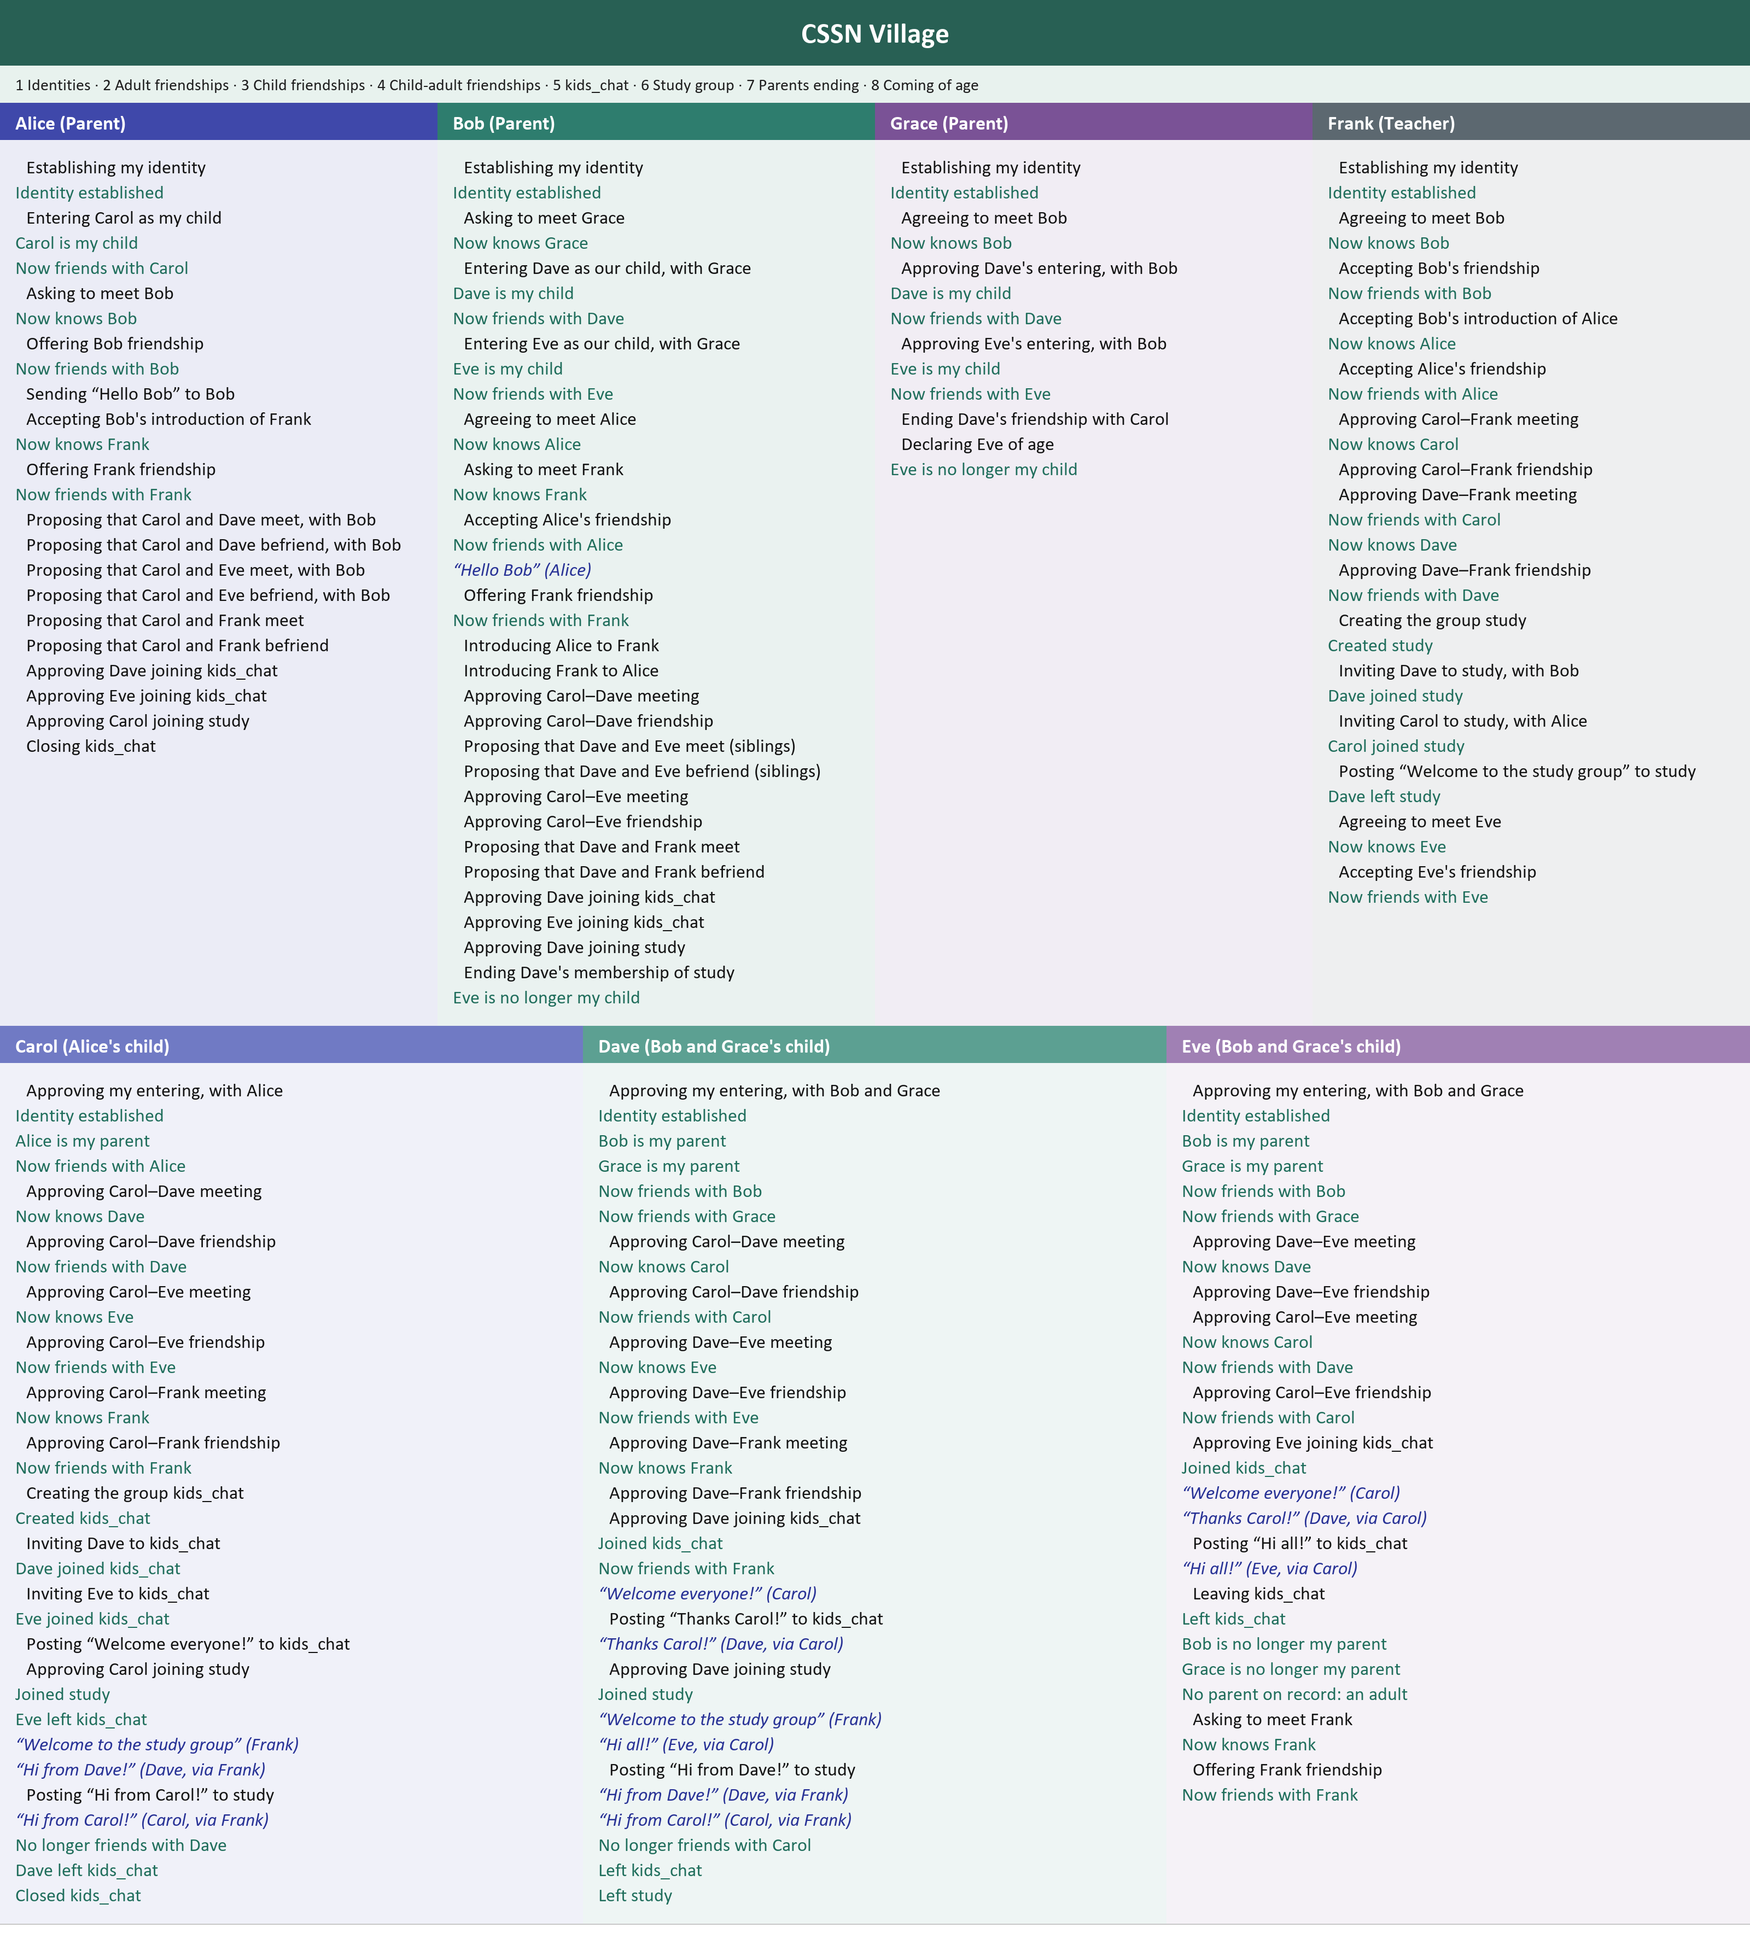
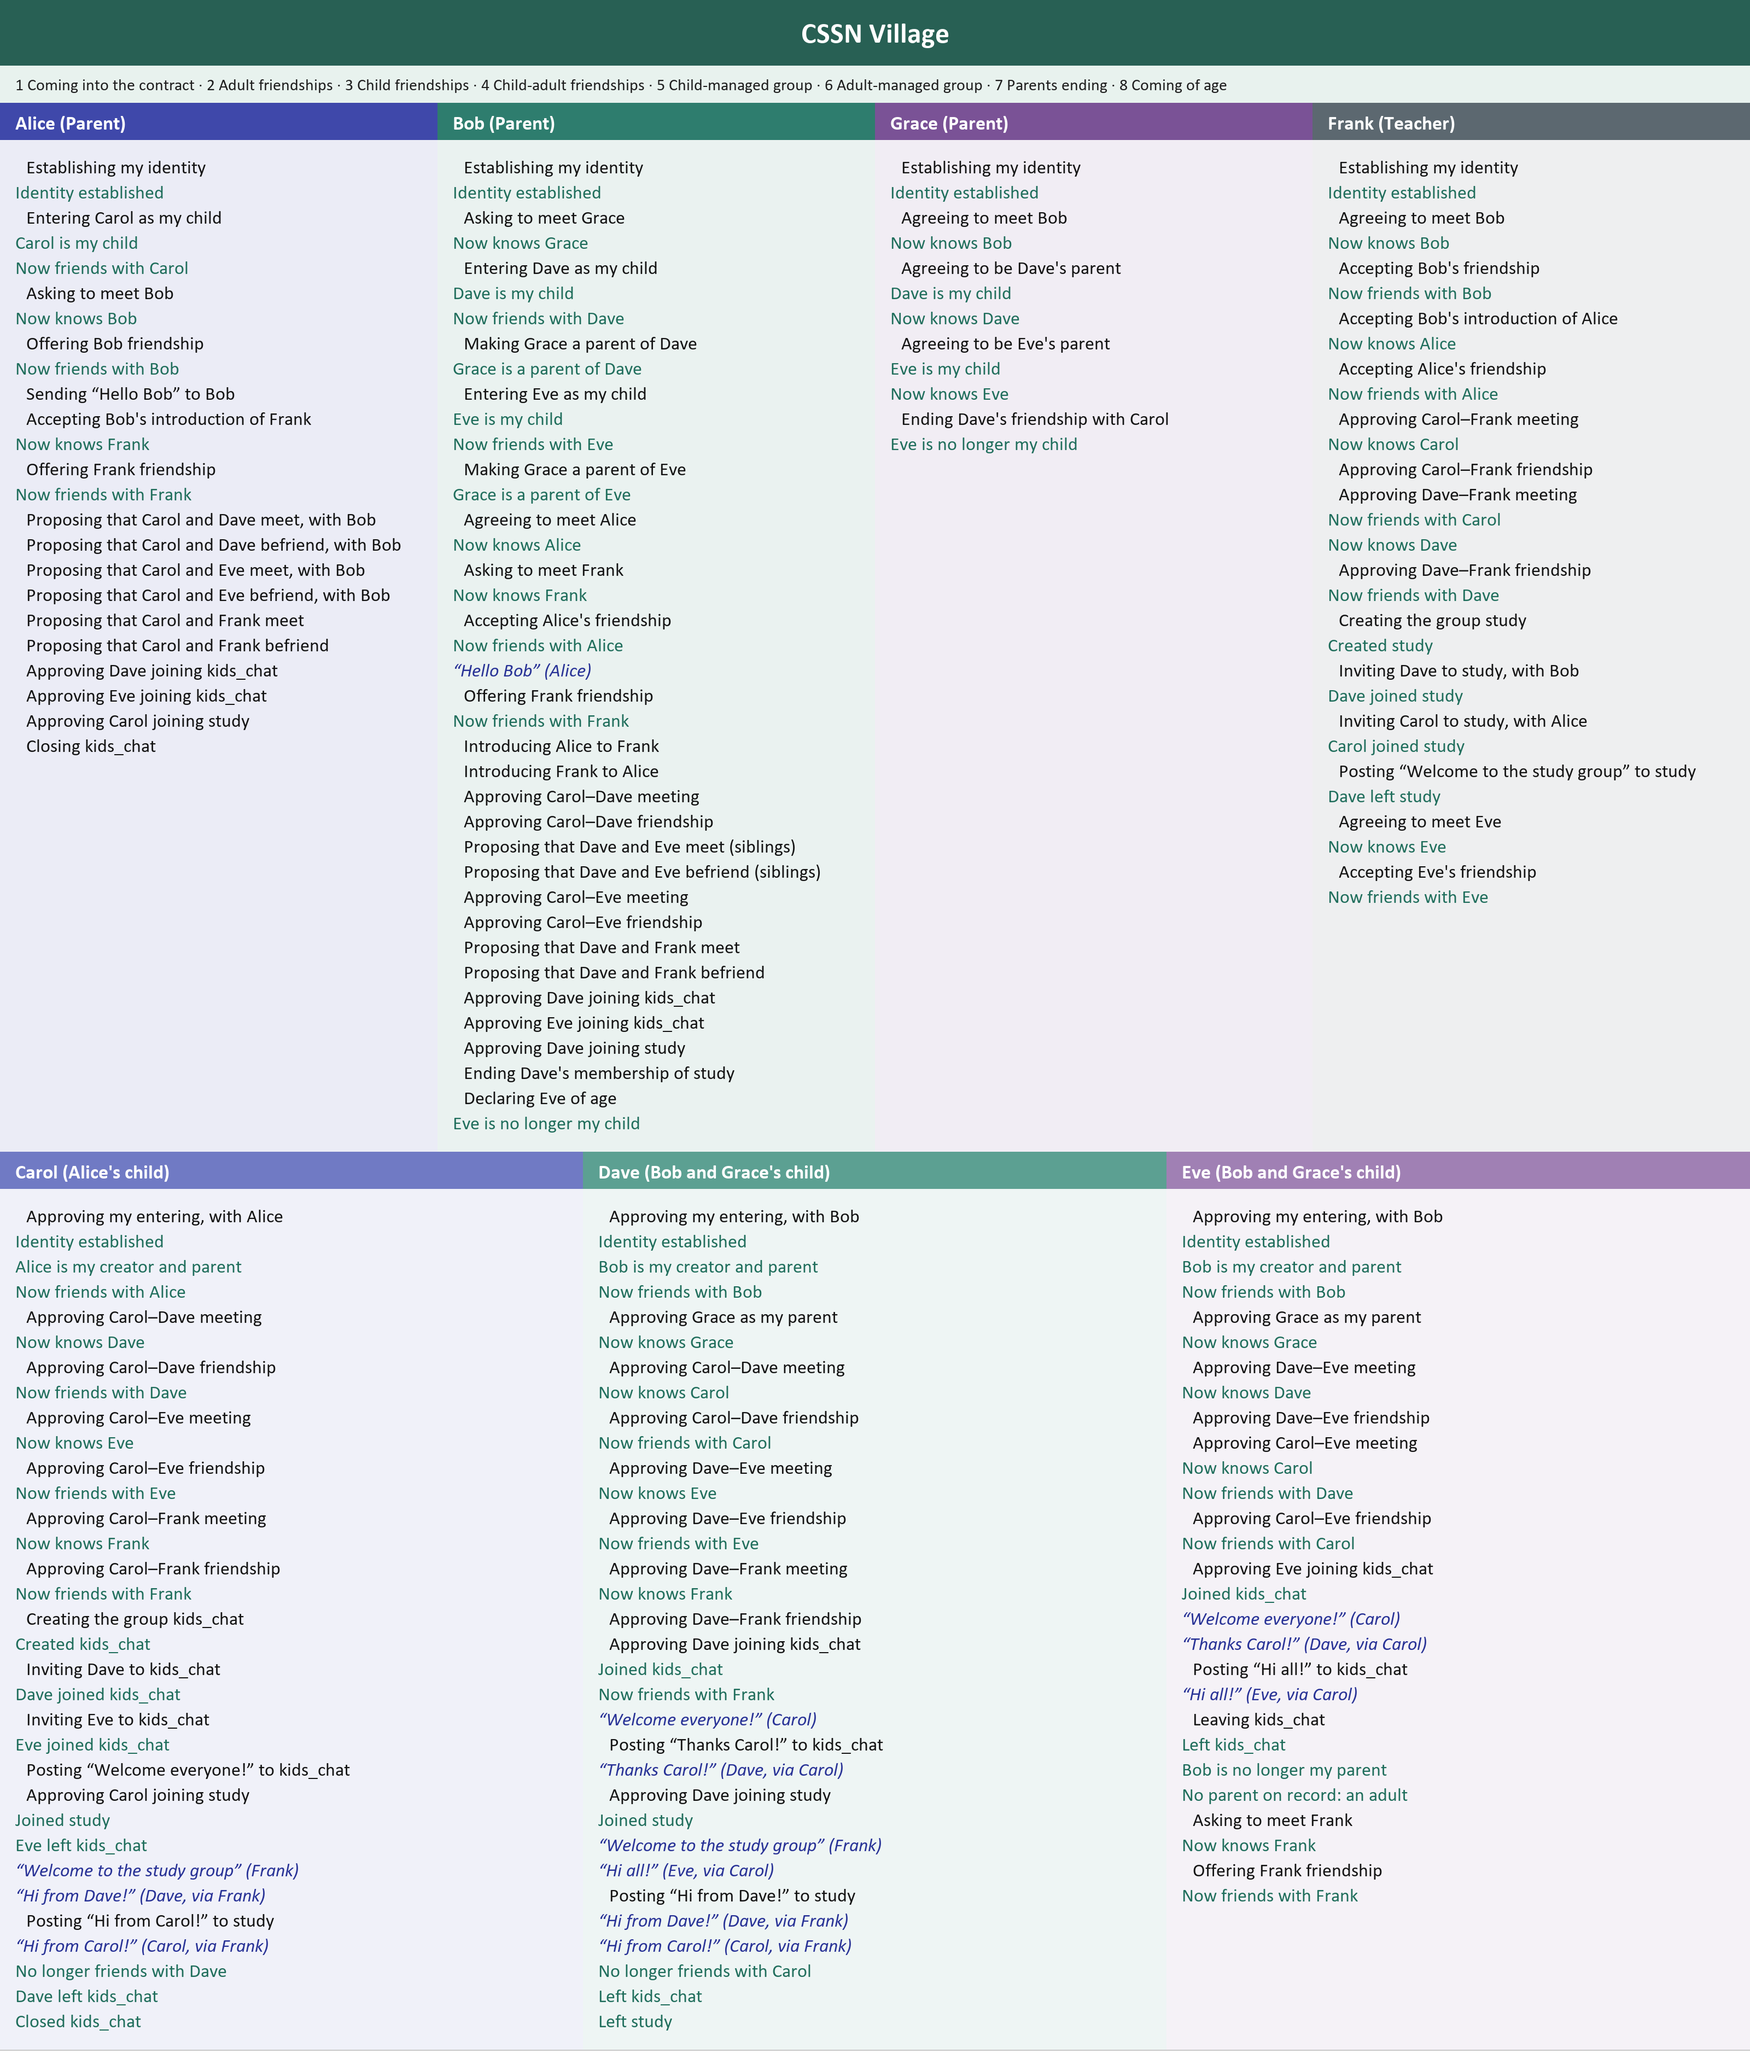
CSSN's Figure 2 re-drawn from the revised village: make_parent and of_age by the creator in the narrative, creator and made atoms; the eight titles

Changed region(s): [[0.0, 0.0, 1.0, 0.9927]]

diff --git a/programs/cssn/figures/village.py b/programs/cssn/figures/village.py
@@ -158,8 +158,12 @@ def request(me, r):
         return "Establishing my identity"
     if f == "enter":
         return "Entering %s as my child" % name(a[1])
-    if f == "enter_2":
-        return "Entering %s as our child, with %s" % (name(a[2]), name(a[1]))
+    if f == "make_parent":
+        return "Making %s a parent of %s" % (name(a[1]), name(a[2]))
+    if f == "end_parent":
+        return "Ending %s's parenthood of %s" % (name(a[1]), name(a[2]))
+    if f == "retire":
+        return "Retiring %s" % name(a[1])
     if f == "meet":
         return "Asking to meet %s" % name(a[1])
     if f == "introduce":
@@ -201,8 +205,8 @@ def request(me, r):
         return "Ending %s's membership of %s" % (name(a[1]), group(a[3]))
     if f == "child_close":
         return "Closing %s" % group(a[2])
-    if f in ("of_age", "of_age_2"):
-        return "Declaring %s of age" % name(a[-1])
+    if f == "of_age":
+        return "Declaring %s of age" % name(a[1])
     if f == "unfriend":
         return "Ending my friendship with %s" % name(a[1])
     return "Requesting %s" % f
@@ -214,10 +218,10 @@ def approval(me, k):
         f, a = a[3]
     if f == "enter":
         return "Approving my entering, with %s" % name(a[0]) if me == a[1][0] else "Approving %s's entering" % name(a[1])
-    if f == "enter_2":
+    if f == "make_parent":
         if me == a[2][0]:
-            return "Approving my entering, with %s and %s" % (name(a[0]), name(a[1]))
-        return "Approving %s's entering, with %s" % (name(a[2]), name(a[0]))
+            return "Approving %s as my parent" % name(a[1])
+        return "Agreeing to be %s's parent" % name(a[2])
     if f == "meet":
         return "Agreeing to meet %s" % name(a[0])
     if f == "introduce":
@@ -257,7 +261,7 @@ def changes(me, old, new):
             lines.append(("result", "No longer friends with %s" % name(a[0])))
         elif f == "parenting":
             lines.append(("result", "%s is no longer my child" % name(a[0])))
-        elif f == "parent":
+        elif f == "creator":
             lines.append(("result", "%s is no longer my parent" % name(a[0])))
         elif f == "member" and repr(a[0][1][1]) not in closed:
             lines.append(("result", "Left %s" % group(a[0][1][1])))
@@ -276,8 +280,10 @@ def changes(me, old, new):
             lines.append(("result", "Now friends with %s" % name(a[0])))
         elif f == "parenting":
             lines.append(("result", "%s is my child" % name(a[0])))
-        elif f == "parent":
-            lines.append(("result", "%s is my parent" % name(a[0])))
+        elif f == "creator":
+            lines.append(("result", "%s is my creator and parent" % name(a[0])))
+        elif f == "made":
+            lines.append(("result", "%s is a parent of %s" % (name(a[0]), name(a[1]))))
         elif f == "member":
             g = group(a[0][1][1])
             lines.append(("result", "Created %s" % g if a[0][1][0][1][0][0] == me else "Joined %s" % g))
